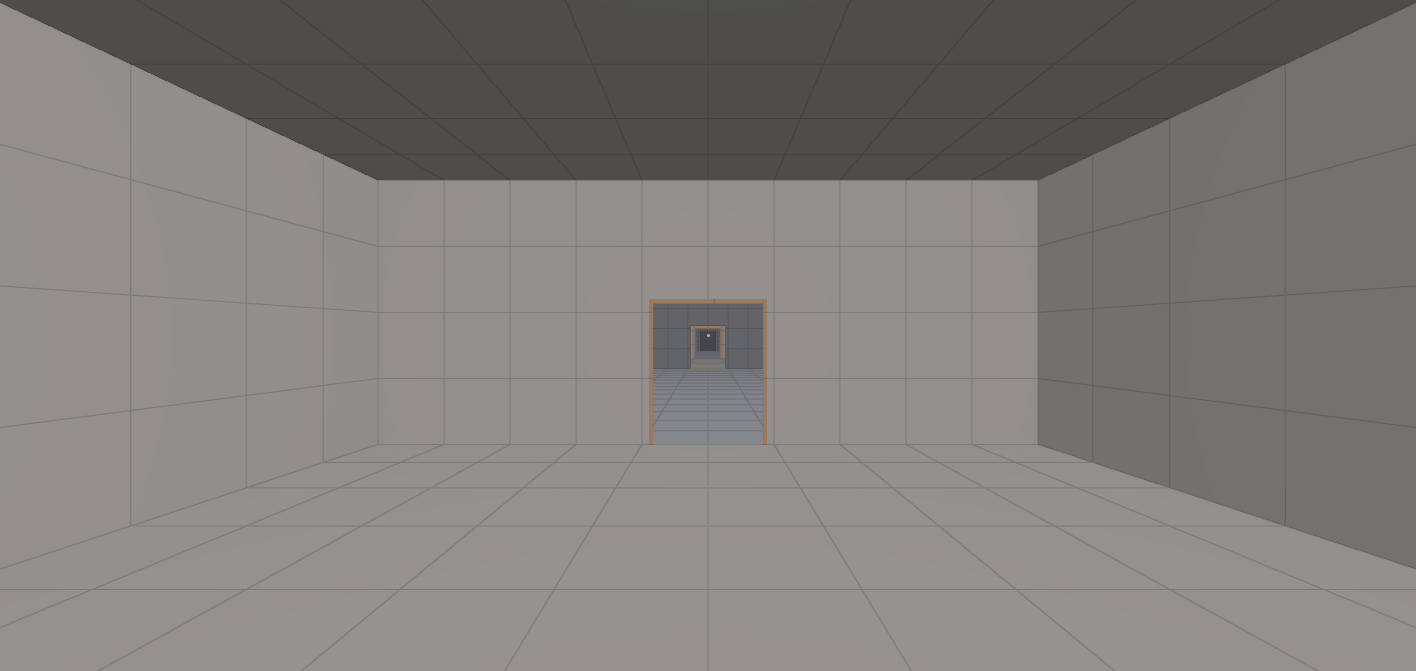
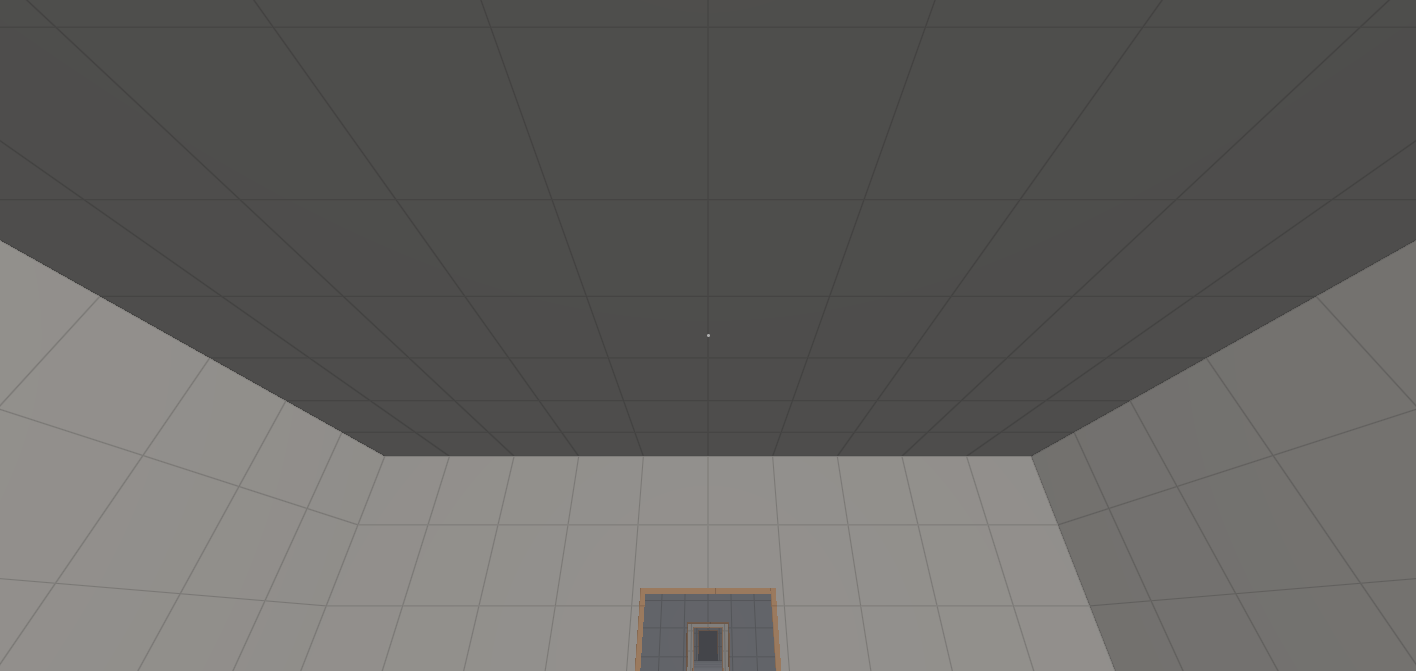
le tangage survit aux traversées, Ctrl+Z neutralisé, plus de cube en l'air
Trois signalements en jouant.

Le regard se redressait à l'horizontale à chaque porte franchie. La routine
censée corriger la dérive d'arrondi projetait aussi le regard perpendiculairement
à la verticale locale — un excès de zèle qui écrasait le tangage. Le regard n'a
aucune raison d'être perpendiculaire à la verticale : c'est ce que veut dire
regarder en haut ou en bas. Seul le repère de la caméra doit être orthonormé, et
il est déjà reconstruit à chaque image. Le même défaut vidait les préréglages
inclinés de leur inclinaison, au point que les deux points de vue de tangage du
test rendaient des images identiques au bit près — avec des statistiques
identiques affichées à l'écran, que je n'ai pas rapprochées.

Ctrl+Z : sur un clavier AZERTY, avancer se fait sur la touche physique `KeyW`,
qui porte un Z, donc tenir Ctrl en marchant déclenchait l'annulation du
navigateur. On l'étouffe, ainsi que le rétablissement, et on ignore les
raccourcis du moteur tant qu'un modificateur est enfoncé — de sorte que Ctrl+R et
F12 continuent de fonctionner.

Un cube ne s'immobilise plus que **posé**. Sans cette condition, frôler deux fois
le montant d'une porte suffisait à le déclarer au repos en pleine embrasure, et il
restait suspendu en l'air. La collision reste une boîte par cellule, sans montant
de porte : la vraie géométrie de collision viendra avec le passage au Rust.

Deux contrôles ajoutés, et tous deux vus échouer sur le bug réintroduit : le
[…]

diff --git a/src/dev/selftest.ts b/src/dev/selftest.ts
@@ -13,7 +13,8 @@
  */
 
 import { create, invertRigid, multiply, transformDir, transformPoint, type Mat4 } from '../math/mat4'
-import { add, cross, dot, len, scale, sub, v3, type Vec3 } from '../math/vec3'
+import { add, cross, dot, len, normalize, scale, sub, v3, type Vec3 } from '../math/vec3'
+import { Player } from '../player/player'
 import { cameraToWorld } from '../render/camera'
 import { advance, resolveAgainstCell } from '../world/motion'
 import type { World } from '../world/types'
@@ -217,7 +218,38 @@ export function runSelfTest(world: World): Check[] {
     add_('caméra · repère direct', worstDet < EPS, `écart ${fmt(worstDet)}`)
   }
 
-  // 8. Un contrôle bête et utile : personne ne doit se retrouver hors de sa cellule.
+  // 8. Le tangage doit survivre au placement et à la traversée.
+  //
+  //    Le défaut était brutal — le regard se redressait à l'horizontale chaque fois
+  //    qu'on franchissait une porte — et il venait d'un excès de zèle : une routine
+  //    censée corriger la dérive d'arrondi projetait aussi le regard
+  //    perpendiculairement à la verticale, écrasant l'inclinaison.
+  //
+  //    On mesure le cosinus de l'angle entre le regard et la verticale locale : il
+  //    doit être exactement le même avant et après.
+  {
+    const pitched = normalize(v3(0, -0.5, -0.866))
+    const player = new Player()
+    player.goTo({ name: 'contrôle', cell: 'hall', pos: v3(0, 1.65, -3), forward: pitched })
+
+    const placed = dot(player.forward, player.up)
+    add_(
+      'visiteur · le placement conserve le tangage',
+      Math.abs(placed - dot(pitched, v3(0, 1, 0))) < 1e-6,
+      `cosinus ${placed.toFixed(6)} au lieu de ${pitched.y.toFixed(6)}`,
+    )
+
+    const keys = new Set(['KeyW'])
+    for (let i = 0; i < 120 && player.crossings === 0; i++) player.update(1 / 60, world, keys)
+    const crossed = dot(player.forward, player.up)
+    add_(
+      'visiteur · la traversée conserve le tangage',
+      player.crossings > 0 && Math.abs(crossed - placed) < 1e-4,
+      `${player.crossings} traversée(s), cosinus ${crossed.toFixed(6)} au lieu de ${placed.toFixed(6)}`,
+    )
+  }
+
+  // 9. Un contrôle bête et utile : personne ne doit se retrouver hors de sa cellule.
   const stray = v3(0, 1.65, 0)
   for (const cell of world.cells.values()) {
     const p = resolveAgainstCell(cell, stray, 0.35)

diff --git a/src/player/player.ts b/src/player/player.ts
@@ -78,7 +78,7 @@ export class Player {
     this.pos = { ...preset.pos }
     this.forward = normalize(preset.forward)
     this.up = v3(0, 1, 0)
-    this.reorthogonalise()
+    this.renormalise()
   }
 
   right(): Vec3 {
@@ -128,17 +128,27 @@ export class Player {
     this.pos = result.pos
     this.crossings += result.crossings
 
-    if (result.crossings > 0) this.reorthogonalise()
+    if (result.crossings > 0) this.renormalise()
   }
 
   /**
-   * Les transformations de couture sont rigides, donc en théorie le repère reste
-   * orthonormé. En pratique, après quelques centaines de traversées, l'erreur
-   * d'arrondi finit par se voir. Une remise d'équerre coûte trois produits
-   * vectoriels et supprime le problème définitivement.
+   * Remise à l'unité des deux vecteurs, contre l'erreur d'arrondi accumulée au fil
+   * des traversées.
+   *
+   * **Et rien de plus.** La version précédente projetait aussi le regard
+   * perpendiculairement à la verticale, « pour remettre le repère d'équerre » — ce
+   * qui écrasait le tangage. Conséquence : à chaque franchissement de porte, le
+   * regard se redressait brutalement à l'horizontale. Le même défaut vidait les
+   * préréglages inclinés de leur inclinaison, au point que les deux points de vue
+   * de tangage du test produisaient des images identiques au bit près.
+   *
+   * Le regard n'a **aucune raison** d'être perpendiculaire à la verticale : c'est
+   * précisément ce que veut dire regarder en haut ou en bas. Seul le repère de la
+   * caméra doit être orthonormé, et il est reconstruit à chaque image à partir de
+   * ces deux vecteurs — voir `src/render/camera.ts`.
    */
-  private reorthogonalise(): void {
+  private renormalise(): void {
     this.up = normalize(this.up)
-    this.forward = normalize(sub(this.forward, scale(this.up, dot(this.forward, this.up))))
+    this.forward = normalize(this.forward)
   }
 }

diff --git a/src/player/projectiles.ts b/src/player/projectiles.ts
@@ -106,10 +106,16 @@ export class Projectiles {
       p.angle += dt * 4.5
 
       if (touched) {
-        // Aucune prétention à la physique : le cube s'immobilise. Ce qui compte
-        // ici est la traversée, pas le rebond.
+        // Aucune prétention à la physique : le cube s'immobilise. Ce qui compte ici
+        // est la traversée, pas le rebond.
         p.vel = scale(p.vel, 0.25)
-        if (len(p.vel) < 0.6) {
+
+        // Mais il ne s'immobilise que **posé**. Sans cette condition, un cube qui
+        // frôle deux fois le montant d'une porte perd assez de vitesse pour être
+        // déclaré au repos en pleine embrasure, et reste suspendu en l'air.
+        const floor = world.cells.get(p.cell)?.min.y ?? -Infinity
+        const supported = p.pos.y <= floor + HALF + 1e-3
+        if (supported && len(p.vel) < 0.6) {
           p.resting = true
           p.vel = v3(0, 0, 0)
         }

diff --git a/src/main.ts b/src/main.ts
@@ -81,6 +81,18 @@ async function main(): Promise<void> {
   // --- Clavier --------------------------------------------------------------
   window.addEventListener('keydown', (e) => {
     if (e.code === 'Tab') e.preventDefault()
+
+    // Avec un clavier AZERTY, avancer se fait sur la touche physique `KeyW`, qui
+    // porte un Z. Tenir Ctrl en marchant déclenche donc l'annulation du navigateur.
+    // On l'étouffe, ainsi que le rétablissement, et on ne traite aucun raccourci
+    // tant qu'un modificateur est enfoncé — de sorte que Ctrl+R, F12 et les autres
+    // raccourcis du navigateur continuent de fonctionner normalement.
+    if (e.ctrlKey || e.metaKey || e.altKey) {
+      const k = e.key.toLowerCase()
+      if (k === 'z' || k === 'y') e.preventDefault()
+      return
+    }
+
     keys.add(e.code)
 
     switch (e.code) {

diff --git a/README.md b/README.md
@@ -106,7 +106,13 @@ chaque sous-pas on teste la traversée **avant** la collision — dans l'autre s
 le mur qui contient la porte arrêterait net celui qui cherche à la franchir.
 
 Les vecteurs à transporter (direction du regard, verticale locale, vitesse) sont
-passés à `advance` et transformés à chaque traversée. L'orientation du visiteur
+passés à `advance` et transformés à chaque traversée. Après quoi on les **remet à
+l'unité, et rien de plus** : une version antérieure projetait aussi le regard
+perpendiculairement à la verticale « pour remettre le repère d'équerre », ce qui
+écrasait le tangage — le regard se redressait brutalement à chaque porte franchie.
+Le regard n'a aucune raison d'être perpendiculaire à la verticale ; c'est
+précisément ce que veut dire regarder en haut ou en bas. Seul le repère de la
+caméra doit être orthonormé, et il est reconstruit à chaque image. L'orientation du visiteur
 n'est pas stockée en angles d'Euler mais comme un regard plus une verticale : une
 couture peut faire pivoter le monde n'importe comment, et le tunnel-vrille comme
 la gravité par face exigent que « le haut » cesse d'être une constante.
@@ -144,6 +150,13 @@ intacts. La mesure porte sur le PNG enregistré plutôt que sur le canevas, ce q
 garantit qu'on mesure exactement l'image qu'on regarde ensuite ; un canevas WebGPU
 ne se relit d'ailleurs pas avec `drawImage` hors de la boucle de rendu.
 `scripts/png.mjs` est un décodeur minimal écrit pour l'occasion, sans dépendance.
+
+S'y ajoutent deux contrôles nés d'un défaut que les mesures précédentes avaient
+laissé passer : le tangage doit survivre au placement et à la traversée, et **deux
+points de vue ne peuvent pas produire la même image**. Ce second contrôle est
+trivial et il aurait suffi : les deux vues inclinées sortaient identiques au bit
+près, et leurs statistiques identiques s'affichaient à l'écran sans que personne ne
+les rapproche.
 
 Chacun de ces contrôles a été **vu échouer** : les trois défauts ont été
 réintroduits un par un pour vérifier que le test les attrape. Un contrôle de
